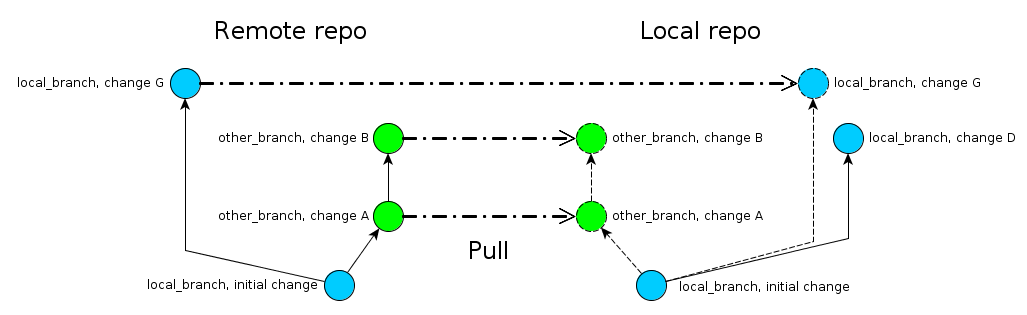
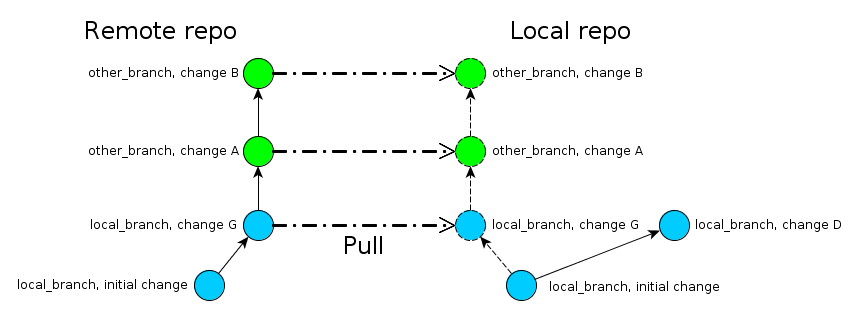
Pull branches diagram was redrawed

diff --git a/slides.tex b/slides.tex
@@ -40,7 +40,9 @@
 > hg pull -b REMOTE_BRANCH REMOTE_REPO
 \end{verbatim}
 \end{exampleblock}
-\includegraphics[width=\textwidth]{img/pull_branches}
+\begin{center}
+\includegraphics[width=0.95\textwidth]{img/pull_branches}
+\end{center}
 \begin{itemize}
 \item Pulling change pulls also all its ancestors $\to$ unneeded changes
 \item Pulling changes may result in creating new heads $\to$ merge is needed
@@ -346,7 +348,7 @@ Also known as "It seems the code was removed remotely so I can drop the local ch
 \item Use \textit{log} to identify what was refactoring about. E.g., you can find the file that is a new home for the code that is missing from the R
 \begin{exampleblock}{Use \textit{log} to find refactoring changesets}
 \begin{verbatim}
-> hg log --removed --follow R 
+> hg log --follow R 
 \end{verbatim}
 \end{exampleblock}
 \item Iterate through base-local differences change by change and apply them to the code in a correct place
@@ -393,6 +395,7 @@ Also known as "It seems the code was removed remotely so I can drop the local ch
 \item Providing a good description for the changes
 \item Using \textit{hg cp} and \textit{hg mv} commands to copy and rename/move files
 \item Cross-code reviews
+\item Small self-contained changesets
 \item Writing easy understandable code!
 \end{itemize}
 \end{frame}
@@ -418,6 +421,7 @@ Also known as "It seems the code was removed remotely so I can drop the local ch
 \item Modifying a component that somebody is working on without notifying this person 
 \item Storing autogenerated code and user settings in the code tree
 \item Using branches without bookmarking or naming them
+\item Committing all of the changes in one changeset
 \end{itemize}
 \end{frame}
 
